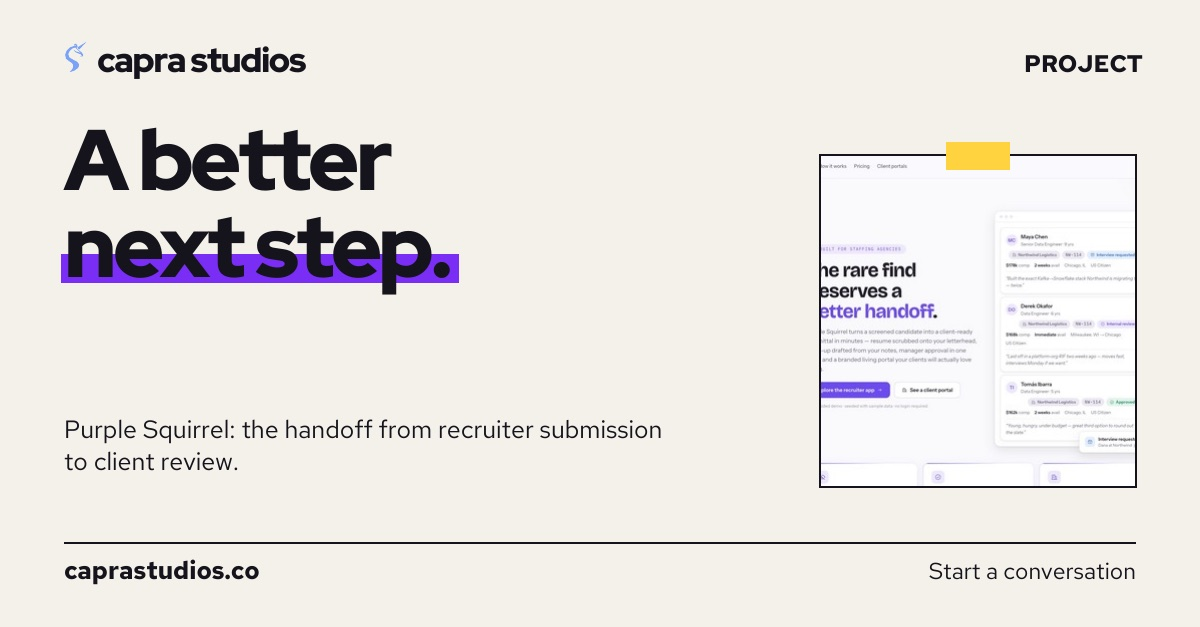
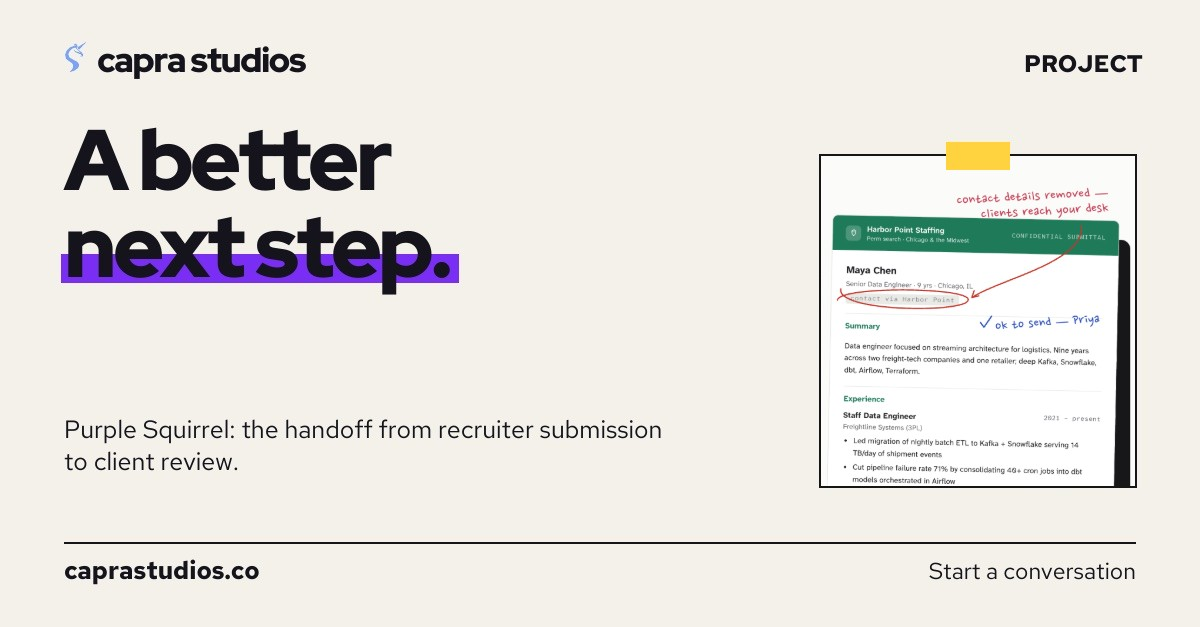
Show the rebuilt Purple Squirrel site on the homepage and case study (#27)
Recapture purplesquirrel.icu after its public site was rebuilt, update the
blurb, alt text and case-study copy to match, rebuild the share card, and
link the live site now that it resolves. Let the preview pick a free port.

Changed region(s): [[0.6783, 0.303, 0.9558, 0.7879], [0.6783, 0.2424, 0.74, 0.2727]]

diff --git a/purple-squirrel.html b/purple-squirrel.html
@@ -95,17 +95,17 @@
 <a class="breadcrumb" href="work.html">← All work</a>
 <h1>Purple Squirrel</h1>
 <p class="lead">A staffing application for the handoff from candidate submission to client review.</p>
-<div class="case-meta"><p>Product design · Web application · Client portal</p><span>A product design study</span></div>
+<div class="case-meta"><p>Product design · Web application · Client portal</p><a class="text-link" href="https://purplesquirrel.icu" target="_blank" rel="noopener noreferrer">Visit Purple Squirrel ↗<span class="sr-only"> (opens in a new tab)</span></a></div>
 </div></section>
-<figure class="paste case-figure shell"><img data-project-image="squirrel" src="assets/work/purple-squirrel.jpg" width="1440" height="980" alt="Purple Squirrel public product presentation with sample candidate cards"><figcaption>Purple Squirrel’s public product website. Demo content uses sample data.</figcaption></figure>
+<figure class="paste case-figure shell"><img data-project-image="squirrel" src="assets/work/purple-squirrel.jpg" width="1440" height="980" alt="Purple Squirrel’s website, showing a sample candidate’s resume on agency letterhead with contact details removed and a manager’s sign-off"><figcaption>Purple Squirrel’s public product website, October 2026. The candidate and agency are sample data.</figcaption></figure>
 <section class="story shell"><h2>The rare find deserves a clear introduction.</h2><p class="lead">Staffing teams need to move candidate information between recruiters, reviewers, and clients. Purple Squirrel gives that handoff a coherent interface and a recognizable place to happen.</p></section>
 <section class="shell" aria-label="Design decisions"><ol class="rows compact">
-<li style="--c:var(--lime)"><h3><span>Make the candidate easy to understand.</span></h3><div><p>The public product presentation puts candidate context, role, and review status into a readable hierarchy. The important information stays together.</p></div></li>
+<li style="--c:var(--lime)"><h3><span>Make the candidate easy to understand.</span></h3><div><p>The website opens on the product’s own letterhead sheet: the resume with contact details removed, set on the agency’s letterhead and signed off by a manager. The important information stays together.</p></div></li>
 <li style="--c:var(--solar)"><h3><span>Give each step a clear place.</span></h3><div><p>Submittals, internal approvals, and client review are distinct parts of the experience. The application organizes the handoff around those roles.</p></div></li>
 <li style="--c:var(--lagoon)"><h3><span>Carry the identity through.</span></h3><div><p>A consistent visual language connects the product website and the portal experience. Clear states and structured layouts support the work behind the presentation.</p></div></li>
 </ol></section>
 <section class="block shell">
-<div class="block-head"><h2>What you’re looking at.</h2><p>This case study shows the existing product presentation. Candidate information in the screenshot is sample data.</p></div>
+<div class="block-head"><h2>What you’re looking at.</h2><p>This case study shows the product’s public website and self-guided demo. Candidate and agency information is sample data.</p></div>
 <a class="text-link" href="#contact">Talk about your application ↓</a>
 </section>
 <a class="next-band field f-lagoon" href="trailgoat.html"><span class="shell next-grid">

diff --git a/index.html b/index.html
@@ -194,8 +194,8 @@
 <a class="paste" href="trailgoat.html" aria-label="Open the TrailGoat project"><img data-project-image="trailgoat" src="assets/work/trailgoat-current.jpg" width="1440" height="980" decoding="async" alt="TrailGoat’s trail-running website, with course planning and fueling tools"><span class="sticker">live at<br>trailgoat.run</span></a>
 </div></article>
 <article class="band field f-uv flip" aria-labelledby="squirrel-title"><div class="shell band-grid">
-<div><h3 class="field-title" id="squirrel-title">Purple Squirrel</h3><p>A staffing application for the handoff from a recruiter’s submission to a client’s review.</p><a class="text-link" href="purple-squirrel.html">Read the Purple Squirrel story →</a></div>
-<a class="paste" href="purple-squirrel.html" aria-label="Open the Purple Squirrel project"><img data-project-image="squirrel" src="assets/work/purple-squirrel.jpg" width="1440" height="980" loading="lazy" decoding="async" alt="Purple Squirrel’s staffing platform, showing sample candidate cards and review states"></a>
+<div><h3 class="field-title" id="squirrel-title">Purple Squirrel</h3><p>Submittal software for staffing agencies: a screened candidate goes from a recruiter’s desk to a client’s review the same afternoon.</p><a class="text-link" href="purple-squirrel.html">Read the Purple Squirrel story →</a></div>
+<a class="paste" href="purple-squirrel.html" aria-label="Open the Purple Squirrel project"><img data-project-image="squirrel" src="assets/work/purple-squirrel.jpg" width="1440" height="980" loading="lazy" decoding="async" alt="Purple Squirrel’s website, showing a sample candidate’s resume on agency letterhead with contact details removed and a manager’s sign-off"></a>
 </div></article>
 </section>
 <section class="film room" id="motion" aria-labelledby="motion-title"><div class="shell">

diff --git a/work.html b/work.html
@@ -95,8 +95,8 @@
 <a class="paste" href="trailgoat.html" aria-label="Open the TrailGoat project"><img data-project-image="trailgoat" src="assets/work/trailgoat-current.jpg" width="1440" height="980" decoding="async" alt="TrailGoat’s trail-running website, with course planning and fueling tools"><span class="sticker">live at<br>trailgoat.run</span></a>
 </div></article>
 <article class="band field f-uv flip" aria-labelledby="squirrel-title"><div class="shell band-grid">
-<div><h3 class="field-title" id="squirrel-title">Purple Squirrel</h3><p>A staffing application for the handoff from a recruiter’s submission to a client’s review.</p><a class="text-link" href="purple-squirrel.html">Read the Purple Squirrel story →</a></div>
-<a class="paste" href="purple-squirrel.html" aria-label="Open the Purple Squirrel project"><img data-project-image="squirrel" src="assets/work/purple-squirrel.jpg" width="1440" height="980" loading="lazy" decoding="async" alt="Purple Squirrel’s staffing platform, showing sample candidate cards and review states"></a>
+<div><h3 class="field-title" id="squirrel-title">Purple Squirrel</h3><p>Submittal software for staffing agencies: a screened candidate goes from a recruiter’s desk to a client’s review the same afternoon.</p><a class="text-link" href="purple-squirrel.html">Read the Purple Squirrel story →</a></div>
+<a class="paste" href="purple-squirrel.html" aria-label="Open the Purple Squirrel project"><img data-project-image="squirrel" src="assets/work/purple-squirrel.jpg" width="1440" height="980" loading="lazy" decoding="async" alt="Purple Squirrel’s website, showing a sample candidate’s resume on agency letterhead with contact details removed and a manager’s sign-off"></a>
 </div></article>
 </section>
 <section class="film room" aria-labelledby="film-title"><div class="shell">

diff --git a/README.md b/README.md
@@ -58,7 +58,7 @@ The build validates local asset paths, anchor targets, one H1 per page, and stru
 ## Reference provenance
 
 - Design tokens adapted from `Bookee2/SkillZ`, branch `add/kb-tokyo`, `skills/kb-tokyo/assets/tokyo.css` (September 9, 2026).
-- Portfolio descriptions and screenshots use the founder's actual websites: TrailGoat and Purple Squirrel. TrailGoat was rechecked and captured September 28, 2026. Purple Squirrel uses the existing product capture; its former public URL returned 404 on September 28, so no live-demo link is published.
+- Portfolio descriptions and screenshots use the founder's actual websites: TrailGoat and Purple Squirrel. TrailGoat was rechecked and captured September 28, 2026. Purple Squirrel was recaptured from purplesquirrel.icu on October 5, 2026, after its public site was rebuilt; the case study links to it.
 - Capra ribbon-unicorn identity selected from concept 03. Native SVG applications and the shaded hero artwork are documented in `docs/RIBBON-ASSET.md`. The original C assets are preserved in `docs/brand-archive/cut-c/`. Portfolio pages may include their own third-party resources; screenshots represent the sites as accessed on September 9, 2026.
 
 ### Homepage
